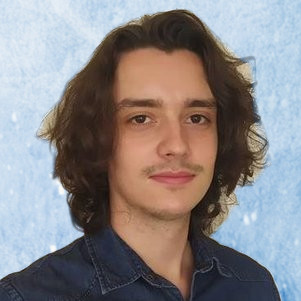
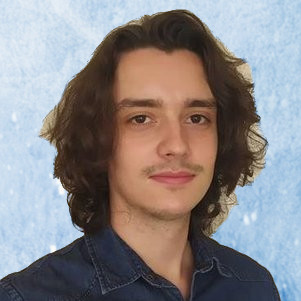
Crisper headshot edges against the watercolor

diff --git a/index.html b/index.html
@@ -702,7 +702,7 @@
         <h3>Current</h3>
         <ul class="people" data-gallery>
           <li class="person">
-            <button type="button" class="avatar shot" data-full="assets/people/yizhou-xing-3-lg.jpg" aria-label="Enlarge photo of Yizhou Xing"><img src="assets/people/yizhou-xing-3.jpg" width="153" height="153" alt="Yizhou Xing" loading="lazy"></button>
+            <button type="button" class="avatar shot" data-full="assets/people/yizhou-xing-3-lg.jpg?v=2" aria-label="Enlarge photo of Yizhou Xing"><img src="assets/people/yizhou-xing-3.jpg?v=2" width="153" height="153" alt="Yizhou Xing" loading="lazy"></button>
             <span class="person-text">
               <a class="person-name" href="https://www.linkedin.com/in/yizhou-xing-27861621a/" target="_blank" rel="noopener">Yizhou Xing</a>
               <span class="person-role">PhD student (co-supervised)</span>
@@ -714,7 +714,7 @@
         <h3>Former students</h3>
         <ul class="people" data-gallery>
           <li class="person">
-            <button type="button" class="avatar shot" data-full="assets/people/ben-dhaene-lg.jpg" aria-label="Enlarge photo of Ben D'haene"><img src="assets/people/ben-dhaene.jpg" width="153" height="153" alt="Ben D'haene" loading="lazy"></button>
+            <button type="button" class="avatar shot" data-full="assets/people/ben-dhaene-lg.jpg?v=2" aria-label="Enlarge photo of Ben D'haene"><img src="assets/people/ben-dhaene.jpg?v=2" width="153" height="153" alt="Ben D'haene" loading="lazy"></button>
             <span class="person-text">
               <a class="person-name" href="https://www.linkedin.com/in/bendhaene/" target="_blank" rel="noopener">Ben D'haene</a>
               <span class="person-role">Master internship</span>
@@ -722,7 +722,7 @@
             </span>
           </li>
           <li class="person">
-            <button type="button" class="avatar shot" data-full="assets/people/jakob-rauter-lg.jpg" aria-label="Enlarge photo of Jakob Rauter"><img src="assets/people/jakob-rauter.jpg" width="153" height="153" alt="Jakob Rauter" loading="lazy"></button>
+            <button type="button" class="avatar shot" data-full="assets/people/jakob-rauter-lg.jpg?v=2" aria-label="Enlarge photo of Jakob Rauter"><img src="assets/people/jakob-rauter.jpg?v=2" width="153" height="153" alt="Jakob Rauter" loading="lazy"></button>
             <span class="person-text">
               <span class="person-name">Jakob Rauter</span>
               <span class="person-role">Master thesis</span>
@@ -730,7 +730,7 @@
             </span>
           </li>
           <li class="person">
-            <button type="button" class="avatar shot" data-full="assets/people/maryam-al-jahlawee-lg.jpg" aria-label="Enlarge photo of Maryam Al-Jahlawee"><img src="assets/people/maryam-al-jahlawee.jpg" width="153" height="153" alt="Maryam Al-Jahlawee" loading="lazy"></button>
+            <button type="button" class="avatar shot" data-full="assets/people/maryam-al-jahlawee-lg.jpg?v=2" aria-label="Enlarge photo of Maryam Al-Jahlawee"><img src="assets/people/maryam-al-jahlawee.jpg?v=2" width="153" height="153" alt="Maryam Al-Jahlawee" loading="lazy"></button>
             <span class="person-text">
               <span class="person-name">Maryam Al-Jahlawee</span>
               <span class="person-role">Master internship</span>
@@ -738,7 +738,7 @@
             </span>
           </li>
           <li class="person">
-            <button type="button" class="avatar shot" data-full="assets/people/terezija-jovanovski-2-lg.jpg" aria-label="Enlarge photo of Terezija Jovanovski"><img src="assets/people/terezija-jovanovski-2.jpg" width="153" height="153" alt="Terezija Jovanovski" loading="lazy"></button>
+            <button type="button" class="avatar shot" data-full="assets/people/terezija-jovanovski-2-lg.jpg?v=2" aria-label="Enlarge photo of Terezija Jovanovski"><img src="assets/people/terezija-jovanovski-2.jpg?v=2" width="153" height="153" alt="Terezija Jovanovski" loading="lazy"></button>
             <span class="person-text">
               <a class="person-name" href="https://www.linkedin.com/in/terezija-jovanovski/" target="_blank" rel="noopener">Terezija Jovanovski</a>
               <span class="person-role">Master thesis</span>
@@ -746,7 +746,7 @@
             </span>
           </li>
           <li class="person">
-            <button type="button" class="avatar shot" data-full="assets/people/nouran-bahgat-2-lg.jpg" aria-label="Enlarge photo of Nouran Bahgat"><img src="assets/people/nouran-bahgat-2.jpg" width="153" height="153" alt="Nouran Bahgat" loading="lazy"></button>
+            <button type="button" class="avatar shot" data-full="assets/people/nouran-bahgat-2-lg.jpg?v=2" aria-label="Enlarge photo of Nouran Bahgat"><img src="assets/people/nouran-bahgat-2.jpg?v=2" width="153" height="153" alt="Nouran Bahgat" loading="lazy"></button>
             <span class="person-text">
               <a class="person-name" href="https://www.linkedin.com/in/nouran-bahgat-a83920111/" target="_blank" rel="noopener">Nouran Bahgat</a>
               <span class="person-role">Master thesis</span>
@@ -754,7 +754,7 @@
             </span>
           </li>
           <li class="person">
-            <button type="button" class="avatar shot" data-full="assets/people/laura-ortiz-seco-lg.jpg" aria-label="Enlarge photo of Laura Ortiz Seco"><img src="assets/people/laura-ortiz-seco.jpg" width="153" height="153" alt="Laura Ortiz Seco" loading="lazy"></button>
+            <button type="button" class="avatar shot" data-full="assets/people/laura-ortiz-seco-lg.jpg?v=2" aria-label="Enlarge photo of Laura Ortiz Seco"><img src="assets/people/laura-ortiz-seco.jpg?v=2" width="153" height="153" alt="Laura Ortiz Seco" loading="lazy"></button>
             <span class="person-text">
               <a class="person-name" href="https://www.linkedin.com/in/laura-ortiz-seco-8147031b9/" target="_blank" rel="noopener">Laura Ortiz Seco</a>
               <span class="person-role">Master thesis</span>
@@ -762,7 +762,7 @@
             </span>
           </li>
           <li class="person">
-            <button type="button" class="avatar shot" data-full="assets/people/lin-zeng-lg.jpg" aria-label="Enlarge photo of Lin Zeng"><img src="assets/people/lin-zeng.jpg" width="153" height="153" alt="Lin Zeng" loading="lazy"></button>
+            <button type="button" class="avatar shot" data-full="assets/people/lin-zeng-lg.jpg?v=2" aria-label="Enlarge photo of Lin Zeng"><img src="assets/people/lin-zeng.jpg?v=2" width="153" height="153" alt="Lin Zeng" loading="lazy"></button>
             <span class="person-text">
               <span class="person-name">Lin Zeng</span>
               <span class="person-role">Master internship</span>
@@ -770,7 +770,7 @@
             </span>
           </li>
           <li class="person">
-            <button type="button" class="avatar shot" data-full="assets/people/rui-guo-lg.jpg" aria-label="Enlarge photo of Rui Guo"><img src="assets/people/rui-guo.jpg" width="153" height="153" alt="Rui Guo" loading="lazy"></button>
+            <button type="button" class="avatar shot" data-full="assets/people/rui-guo-lg.jpg?v=2" aria-label="Enlarge photo of Rui Guo"><img src="assets/people/rui-guo.jpg?v=2" width="153" height="153" alt="Rui Guo" loading="lazy"></button>
             <span class="person-text">
               <a class="person-name" href="https://www.linkedin.com/in/rui-guo-265618176/" target="_blank" rel="noopener">Rui Guo</a>
               <span class="person-role">Master internship</span>
@@ -778,7 +778,7 @@
             </span>
           </li>
           <li class="person">
-            <button type="button" class="avatar shot" data-full="assets/people/marcos-cuesta-sanz-lg.jpg" aria-label="Enlarge photo of Marcos Cuesta Sanz"><img src="assets/people/marcos-cuesta-sanz.jpg" width="153" height="153" alt="Marcos Cuesta Sanz" loading="lazy"></button>
+            <button type="button" class="avatar shot" data-full="assets/people/marcos-cuesta-sanz-lg.jpg?v=2" aria-label="Enlarge photo of Marcos Cuesta Sanz"><img src="assets/people/marcos-cuesta-sanz.jpg?v=2" width="153" height="153" alt="Marcos Cuesta Sanz" loading="lazy"></button>
             <span class="person-text">
               <a class="person-name" href="https://www.linkedin.com/in/cuesta-sanz-marcos/" target="_blank" rel="noopener">Marcos Cuesta Sanz</a>
               <span class="person-role">Master internship</span>
@@ -786,7 +786,7 @@
             </span>
           </li>
           <li class="person">
-            <button type="button" class="avatar shot" data-full="assets/people/gerard-vicente-venegas-lg.jpg" aria-label="Enlarge photo of Gerard Vicente Venegas"><img src="assets/people/gerard-vicente-venegas.jpg" width="153" height="153" alt="Gerard Vicente Venegas" loading="lazy"></button>
+            <button type="button" class="avatar shot" data-full="assets/people/gerard-vicente-venegas-lg.jpg?v=2" aria-label="Enlarge photo of Gerard Vicente Venegas"><img src="assets/people/gerard-vicente-venegas.jpg?v=2" width="153" height="153" alt="Gerard Vicente Venegas" loading="lazy"></button>
             <span class="person-text">
               <span class="person-name">Gerard Vicente Venegas</span>
               <span class="person-role">Bachelor thesis</span>
@@ -794,7 +794,7 @@
             </span>
           </li>
           <li class="person">
-            <button type="button" class="avatar shot" data-full="assets/people/thomas-van-der-bent-lg.jpg" aria-label="Enlarge photo of Thomas van der Bent"><img src="assets/people/thomas-van-der-bent.jpg" width="153" height="153" alt="Thomas van der Bent" loading="lazy"></button>
+            <button type="button" class="avatar shot" data-full="assets/people/thomas-van-der-bent-lg.jpg?v=2" aria-label="Enlarge photo of Thomas van der Bent"><img src="assets/people/thomas-van-der-bent.jpg?v=2" width="153" height="153" alt="Thomas van der Bent" loading="lazy"></button>
             <span class="person-text">
               <span class="person-name">Thomas van der Bent</span>
               <span class="person-role">Bachelor thesis</span>
@@ -802,7 +802,7 @@
             </span>
           </li>
           <li class="person">
-            <button type="button" class="avatar shot" data-full="assets/people/marta-cardoso-lg.jpg" aria-label="Enlarge photo of Marta Cardoso"><img src="assets/people/marta-cardoso.jpg" width="153" height="153" alt="Marta Cardoso" loading="lazy"></button>
+            <button type="button" class="avatar shot" data-full="assets/people/marta-cardoso-lg.jpg?v=2" aria-label="Enlarge photo of Marta Cardoso"><img src="assets/people/marta-cardoso.jpg?v=2" width="153" height="153" alt="Marta Cardoso" loading="lazy"></button>
             <span class="person-text">
               <a class="person-name" href="https://www.linkedin.com/in/martafscardoso/" target="_blank" rel="noopener">Marta Cardoso</a>
               <span class="person-role">Technician, imaging and confocal microscopy</span>
